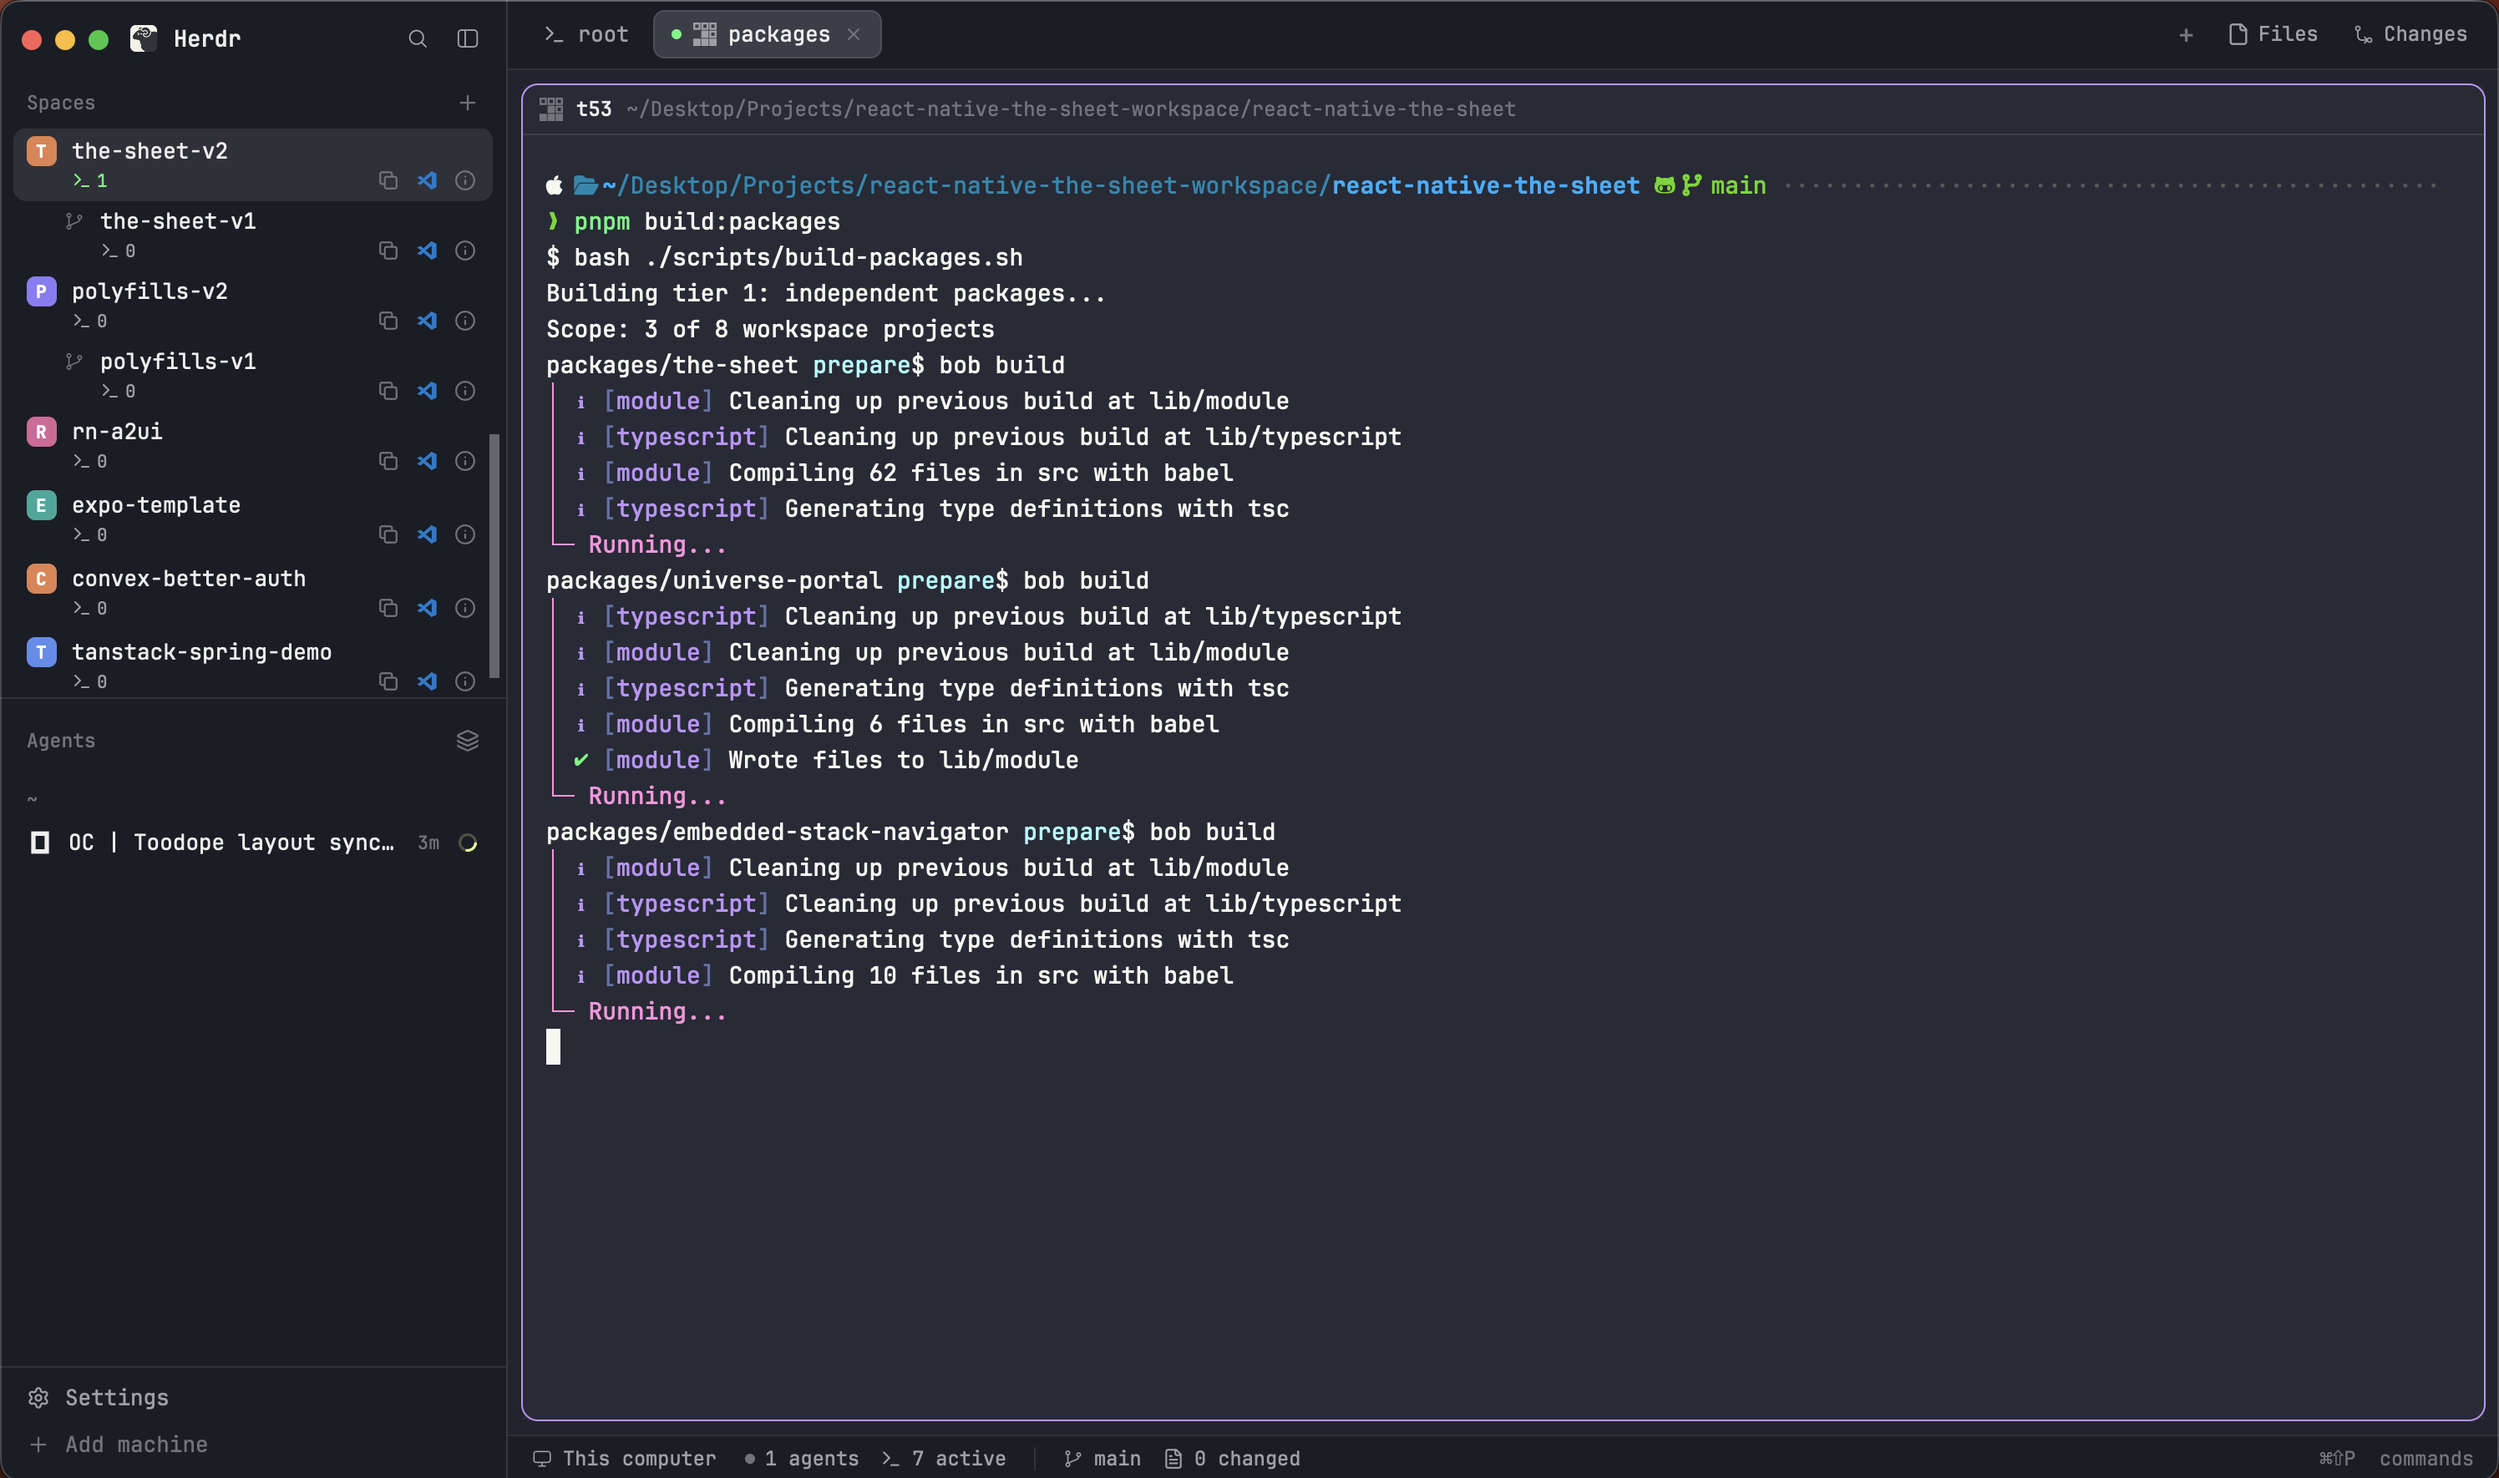
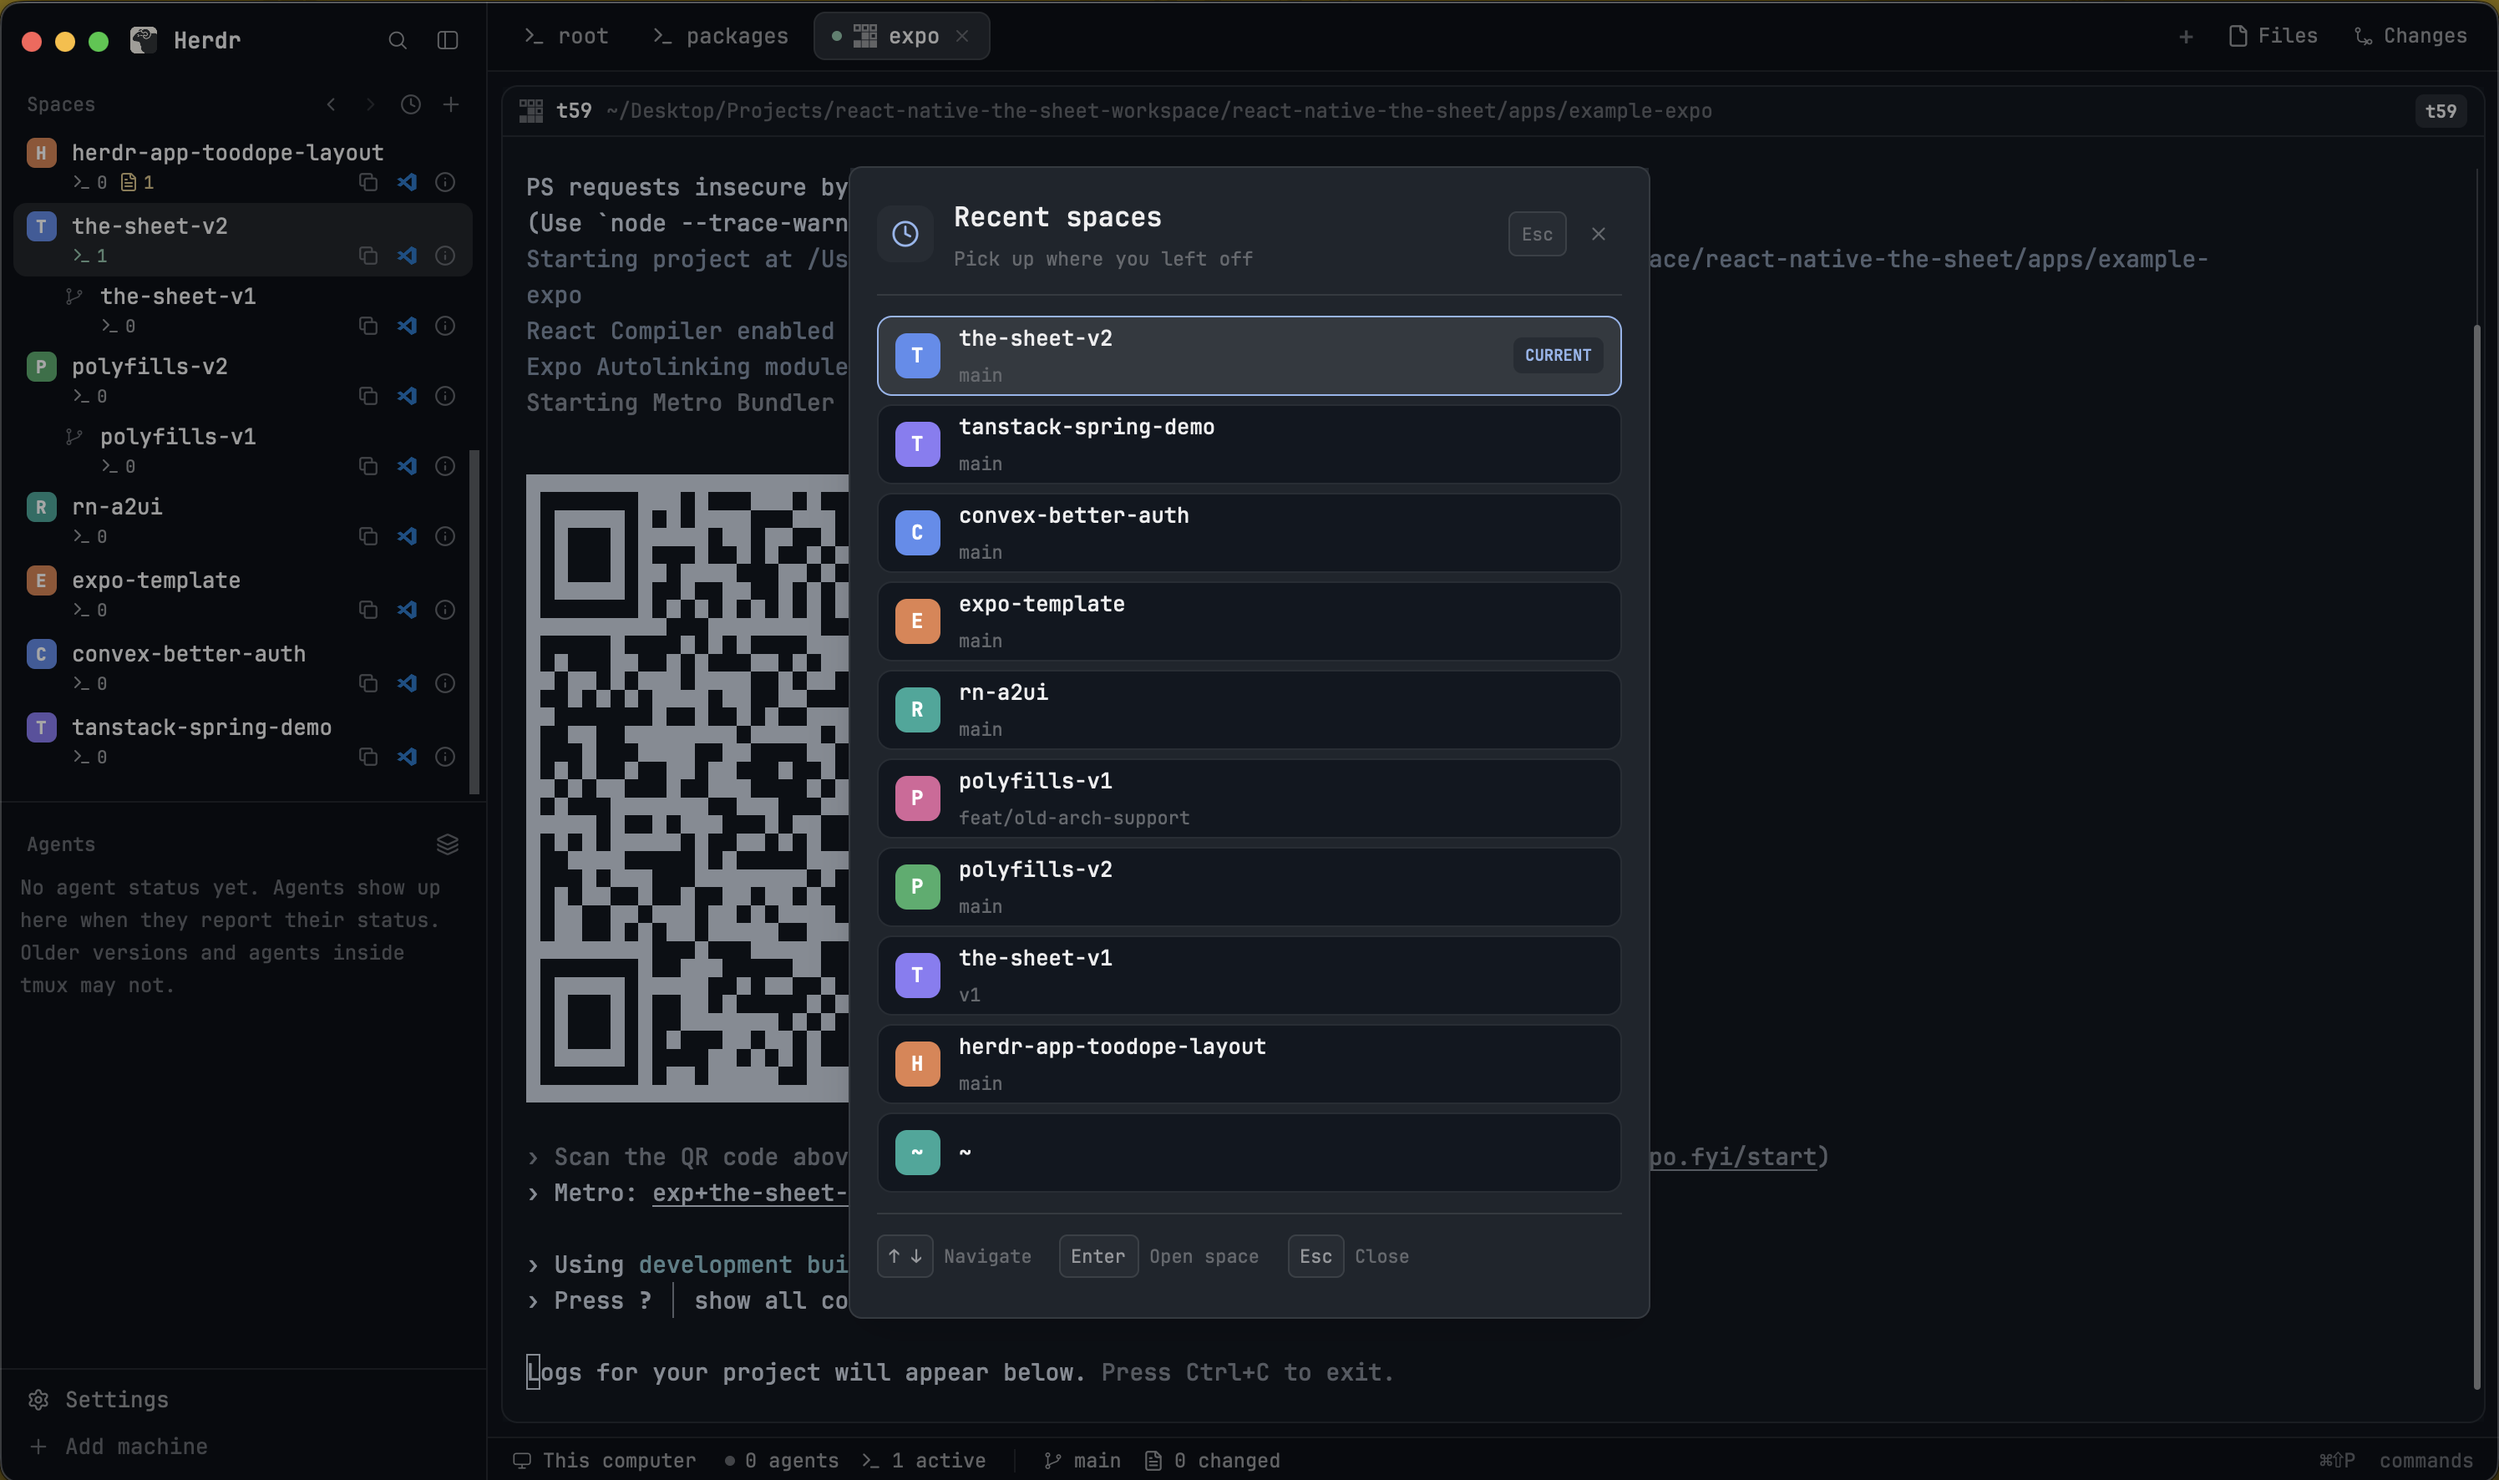
chore: update docs

diff --git a/README.md b/README.md
@@ -62,9 +62,9 @@ herdr-app do layout.switch --name TooDope
 ```
 
 The gallery-ready layout package is in `TooDope/` (`layouts/`, `mods/`,
-`RECIPE.md`, and `preview.png`). `preview.png` is included with the space list,
-tab labels, and terminal contents blurred. The installer has no third-party Python
-dependencies and makes no network requests. The `toodope-spaces` mod runs
+`RECIPE.md`, and `preview.png`). The preview shows the recent-spaces picker over
+a running terminal. The installer has no third-party Python dependencies and
+makes no network requests. The `toodope-spaces` mod runs
 `hc`, `git`, and `code` commands and reads Git metadata from the workspaces it
 shows; these operations are part of its active-process, repository-status, and
 open-in-VS-Code features.
